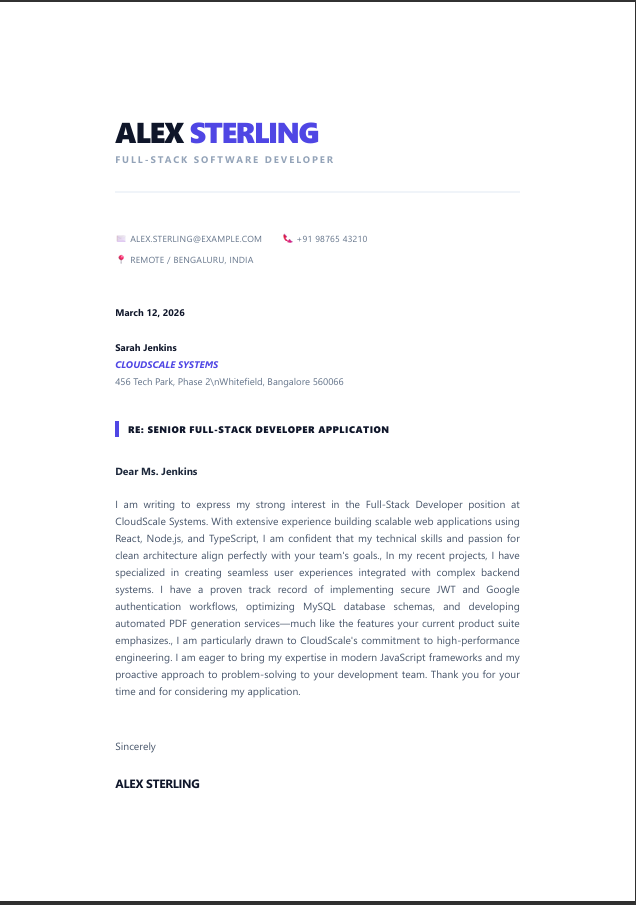
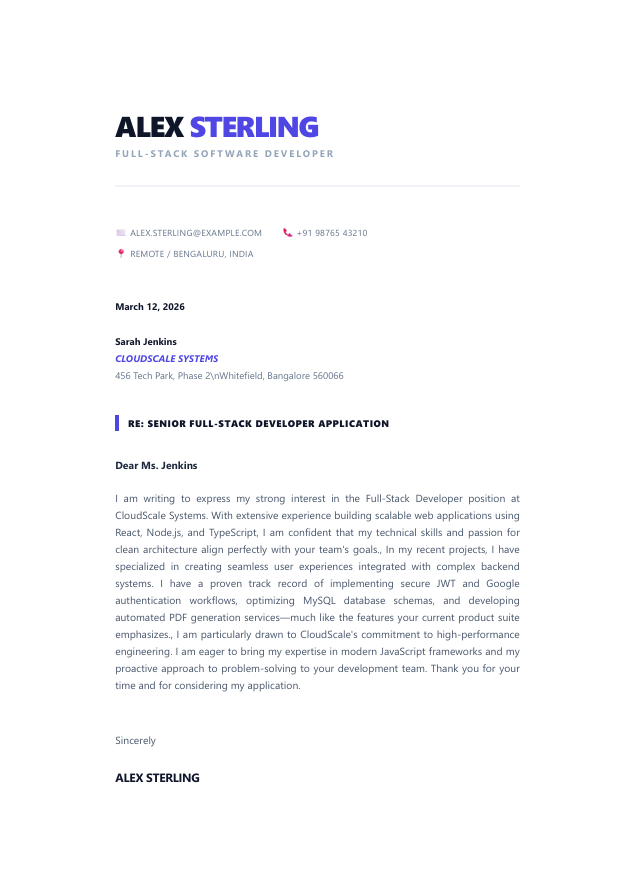
added template and preview

diff --git a/frontend/src/App.tsx b/frontend/src/App.tsx
@@ -13,6 +13,7 @@ import ForgotPassword from "./pages/ForgotPassword";
 import ResetPassword from "./pages/ResetPassword";
 import CoverLetterDashboard from "./pages/CoverLetterDashboard";
 import CoverLetterBuilder from "./pages/CoverLetterBuilder";
+import CoverLetterPreview from "./pages/CoverLetterPreview";
 export default function App() {
   return (
     <Routes>
@@ -21,29 +22,26 @@ export default function App() {
       <Route path="/login" element={<Login />} />
       <Route path="/register" element={<Register />} />
       <Route path="/auth/github/callback" element={<GithubCallback />} />
-                <Route path="/forgot-password" element={<ForgotPassword />} />
-<Route path="/reset-password/:token" element={<ResetPassword />} />
-      {/* Builder: Usually kept separate so you have full-screen space to design */}
-      <Route path="/builder/:id" element={<Builder />} />
-          <Route path="/resume/preview/:id" element={<ResumePreview />} />
-<Route path="/cover-letter-builder/:id" element={<CoverLetterBuilder />} />
-      {/* Protected Routes Group with Sidebar */}
+      <Route path="/forgot-password" element={<ForgotPassword />} />
+      <Route path="/reset-password/:token" element={<ResetPassword />} />
+
+      {/* Protected Routes Group */}
       <Route element={<ProtectedRoute />}>
-        {/* Everything inside here will have the Sidebar */}
+        
+        {/* 1. Routes WITHOUT Sidebar (Full screen previews/builders) */}
+        <Route path="/builder/:id" element={<Builder />} />
+        <Route path="/resume/preview/:id" element={<ResumePreview />} />
+        <Route path="/cover-letter/preview/:id" element={<CoverLetterPreview />} />
+        <Route path="/cover-letter-builder/:id" element={<CoverLetterBuilder />} />
+
+        {/* 2. Routes WITH Sidebar */}
         <Route element={<DashboardLayout />}>
-          {/* This is the new 'Home' where they select options */}
           <Route path="/home" element={<SelectionPage />} />
-          
-          {/* Your current dashboard (The Resume List) */}
           <Route path="/my-resumes" element={<Dashboard />} />
-          <Route path= "/cover-letter" element={<CoverLetterDashboard />} />
-          
-          {/* Future features can go here */}
+          <Route path="/cover-letter" element={<CoverLetterDashboard />} />
           <Route path="/ats-check" element={<div>ATS Scorer Coming Soon</div>} />
-
-
-          
         </Route>
+
       </Route>
 
       {/* Catch-all Redirect */}

diff --git a/frontend/src/coverlettertemplates/MinimalBorder.tsx b/frontend/src/coverlettertemplates/MinimalBorder.tsx
@@ -1,0 +1,54 @@
+import type { CoverLetterData } from "../types/templateindex";
+
+export default function MinimalistBorderTemplate({ data }: { data: CoverLetterData }) {
+  return (
+    <div id="cover-letter-template" className="w-full h-full bg-white p-[1in] font-serif text-zinc-800 border-[12px] border-zinc-50">
+      <header className="text-center mb-16">
+        <h1 className="text-3xl tracking-[0.2em] uppercase font-light text-zinc-900 mb-2">
+          {data.personal?.fullName}
+        </h1>
+        <div className="flex justify-center gap-4 text-[10px] text-zinc-400 uppercase tracking-widest">
+          <span>{data.personal?.email}</span>
+          <span>•</span>
+          <span>{data.personal?.phone}</span>
+          {/* Added personal location to header for completeness */}
+          {data.personal?.location && (
+            <>
+              <span>•</span>
+              <span>{data.personal.location}</span>
+            </>
+          )}
+        </div>
+      </header>
+
+      <div className="max-w-2xl mx-auto text-[13px] leading-relaxed">
+        <p className="mb-8 text-zinc-400">{data.letter?.date}</p>
+        
+        <div className="mb-10 space-y-1">
+          <p className="font-bold text-zinc-900">{data.recipient?.hiringManager}</p>
+          <p className="text-zinc-500 font-medium">{data.recipient?.company}</p>
+          {/* Recipient Address added here */}
+          {data.recipient?.address && (
+            <p className="text-zinc-400 whitespace-pre-line leading-snug">
+              {data.recipient.address}
+            </p>
+          )}
+        </div>
+
+        <div className="space-y-6 text-zinc-700 italic">
+          <p className="font-bold not-italic text-zinc-900">{data.letter?.salutation}</p>
+          {data.letter?.bodyParagraphs?.map((p, i) => (
+            <p key={i} className="text-justify">{p}</p>
+          ))}
+        </div>
+
+        <div className="mt-12">
+          <p className="mb-4 text-zinc-600">{data.letter?.closing}</p>
+          <p className="font-bold text-lg text-zinc-900 leading-none">
+            {data.personal?.fullName}
+          </p>
+        </div>
+      </div>
+    </div>
+  );
+}

diff --git a/frontend/src/pages/CoverLetterPreview.tsx b/frontend/src/pages/CoverLetterPreview.tsx
@@ -1,0 +1,99 @@
+import { useParams } from "react-router-dom";
+
+import { useEffect, useState } from "react";
+
+import api from "../api/axios";
+
+import { COVER_LETTER_TEMPLATES_MAP } from "../types/templateindex";
+
+
+export default function CoverLetterPreview() {
+
+  const { id } = useParams();
+
+  const [coverLetter, setCoverLetter] = useState<any>(null);
+
+  const [loading, setLoading] = useState(true);
+
+
+    useEffect(() => {
+
+    const fetchCoverLetter = async () => {
+
+      try {
+
+        const res = await api.get(`/coverletters/${id}`);
+
+        setCoverLetter(res.data.coverLetter || res.data);
+
+      } catch (err) {
+
+        console.error("Failed to fetch cover letter for preview", err);
+
+      } finally {
+
+        setLoading(false);
+
+      }   
+
+    };
+
+    fetchCoverLetter();
+
+    }, [id]);
+
+
+if (loading) return <div className="bg-white w-full h-full" />;  if (!coverLetter) return <div>Cover Letter not found</div>;
+
+
+  let parsedData = {};
+
+    try {
+
+    parsedData =
+
+      typeof coverLetter.data === "string"
+
+        ? JSON.parse(coverLetter.data)
+
+        : coverLetter.data;
+
+  } catch (e) {
+
+    console.error("Parse error", e);
+
+  }
+
+
+    const TemplateComponent = COVER_LETTER_TEMPLATES_MAP[coverLetter.templateId];
+
+
+ return (
+// Inside CoverLetterPreview.tsx return
+<div className="bg-white w-[790px] h-[1118px] overflow-hidden preview-mode">
+  <style>{`
+    html, body { 
+      margin: 0; 
+      padding: 0; 
+      background-color: white !important; /* Force white */
+      width: 790px; 
+      height: 1118px; 
+      overflow: hidden;
+    }
+  `}</style>    
+  {TemplateComponent ? (  
+    <TemplateComponent data={parsedData} />
+  ) : (
+    <div className="flex items-center justify-center h-full text-slate-400 bg-white">
+      Template Not Found: {coverLetter.templateId}
+    </div>
+  )}
+</div>
+);
+
+}
+
+
+
+
+

diff --git a/frontend/src/types/templateindex.ts b/frontend/src/types/templateindex.ts
@@ -7,6 +7,7 @@ import ModernTech from "../resumetemplates/ModernTech";
 import ModernTemplate from "../resumetemplates/ModernTemplate";
 import ProfessionalSplitCoverLetter from "../coverlettertemplates/Architecttype";
 import ModernMinimalCoverLetter from "../coverlettertemplates/ModernMinimilistic";
+import MinimalistBorderTemplate from "../coverlettertemplates/MinimalBorder";
 export const TEMPLATES: Record<string, React.FC<any>> = {
   modern: ModernTemplate,
   minimal: MinimalTemplate,
@@ -19,6 +20,7 @@ export const TEMPLATES: Record<string, React.FC<any>> = {
 export const COVER_LETTER_TEMPLATES_MAP: Record<string, React.FC<any>> = {
   classic: ProfessionalSplitCoverLetter,
   moderncover: ModernMinimalCoverLetter,
+  minimalborder: MinimalistBorderTemplate,
 };
 
 export const TEMPLATE_LIST = [
@@ -33,6 +35,7 @@ export const TEMPLATE_LIST = [
 export const COVER_LETTER_TEMPLATES = [
  { id: "classic", name: "Classic Cover Letter" },
   { id: "moderncover", name: "Modern Minimalist" },
+  { id: "minimalborder", name: "Minimalist Border" },
 
 ];
 

diff --git a/frontend/src/pages/CoverLetterDashboard.tsx b/frontend/src/pages/CoverLetterDashboard.tsx
@@ -22,7 +22,7 @@ export default function CoverLetterDashboard() {
     <div className="p-8" max-w-7xl mx-auto>
         <section className="mb-12">
           <h2 className="text-2xl font-bold mb-6 text-slate-600">START NEW</h2>
-          <div className="grid grid-cols-1 md:grid-cols-3 gap-6">
+          <div className="grid grid-cols-1 md:grid-cols-4 gap-6">
             <SkeletonWrapper isLoading={false} count={2}>
               {COVER_LETTER_TEMPLATES.map((tpl) => (
             <div 
@@ -65,8 +65,8 @@ export default function CoverLetterDashboard() {
                 updatedAt={coverLetter.updatedAt}
                 id={coverLetter.Id}
                 type="coverletter"
-                preview={coverLetter.preview}
-                showContent={false}
+                preview={`/previews/${coverLetter.templateId}.png`}
+                showContent={true}
                 onClick={() => handleEditCoverLetter(coverLetter.Id)}
                 onDelete={() => handleDeleteCoverLetter(coverLetter.Id)}
               />

diff --git a/frontend/src/components/DocumentCard.tsx b/frontend/src/components/DocumentCard.tsx
@@ -40,7 +40,7 @@ export default function DocumentCard({
   }, [showContent]);
 
   // Determine the preview URL based on type
-  const previewUrl = type === "resume" ? `/resume/preview/${id}` : `/coverletter/preview/${id}`;
+  const previewUrl = type === "resume" ? `/resume/preview/${id}` : `/cover-letter/preview/${id}`;
 
   return (
     <div
@@ -62,7 +62,8 @@ export default function DocumentCard({
                 width: "790px",
                 height: "1118px",
                 transform: `scale(${scale})`,
-                transformOrigin: "center center",
+                transformOrigin: "top center",
+                top: 0,
               }}
             />
             {/* Overlay to prevent iframe interaction while in card mode */}

diff --git a/frontend/src/pages/Dashboard.tsx b/frontend/src/pages/Dashboard.tsx
@@ -21,7 +21,7 @@ export default function Dashboard() {
       {/* 1. START NEW Section */}
       <section className="mb-12">
         <h2 className="text-2xl font-bold mb-6 text-slate-600">START NEW</h2>
-        <div className="grid grid-cols-2 md:grid-cols-3 gap-6">
+        <div className="grid grid-cols-2 md:grid-cols-4 gap-6">
           <SkeletonWrapper isLoading={isLoading} count={5}>
             {TEMPLATE_LIST.map((tpl) => (
               <div 
